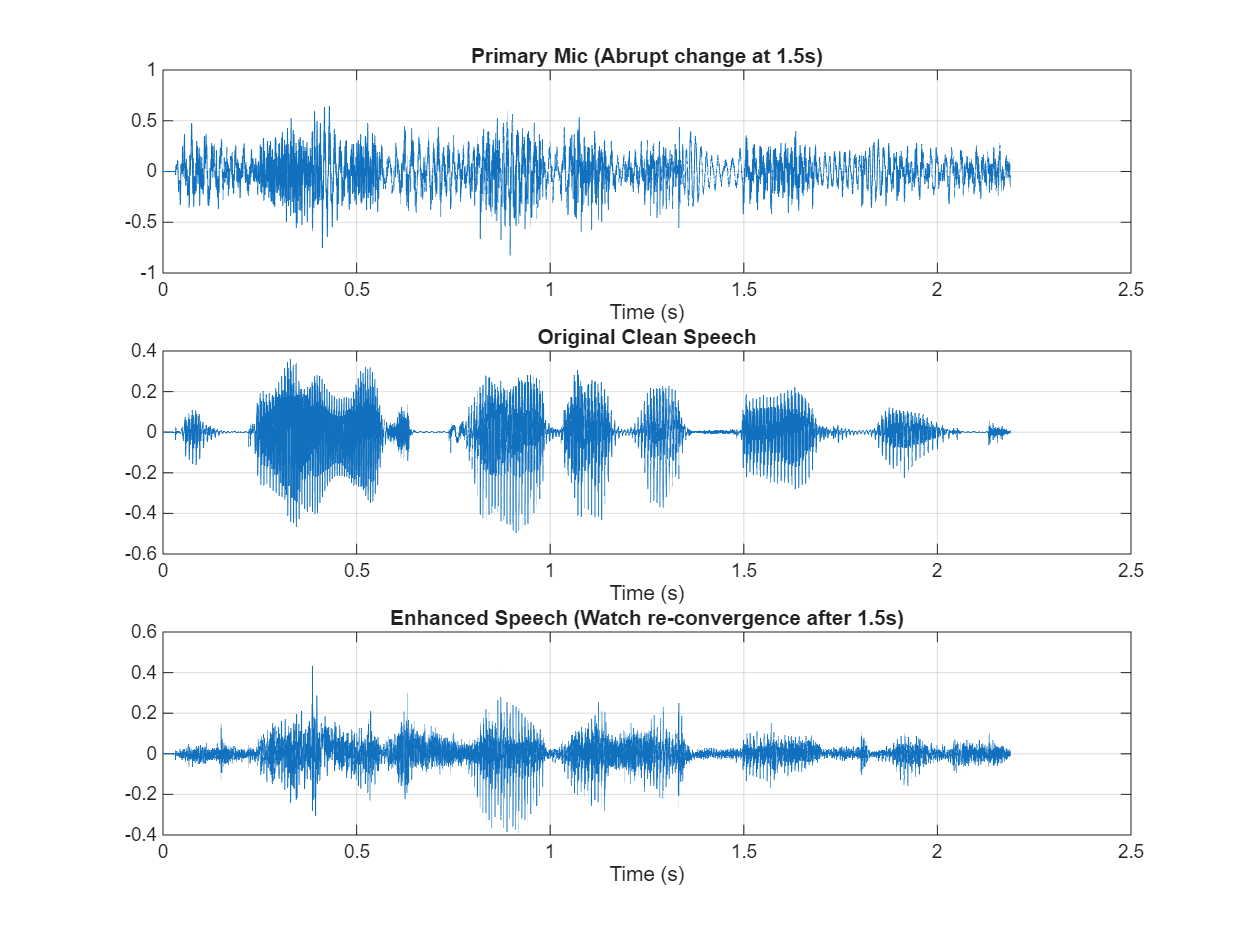
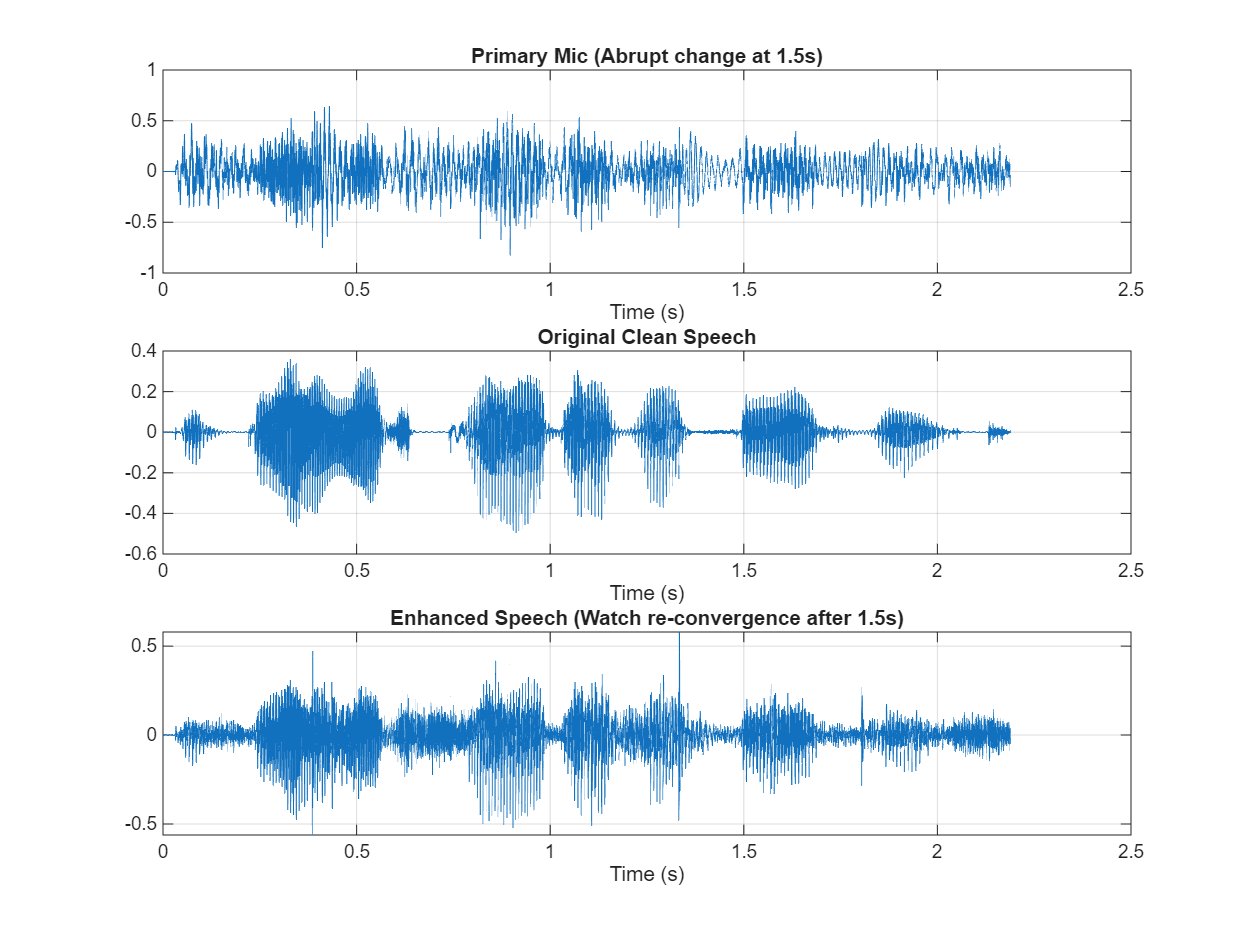
revert to old params

Changed region(s): [[0.1248, 0.7111, 0.8112, 0.8966], [0.0936, 0.6493, 0.1248, 0.7729], [0.0936, 0.8348, 0.1248, 0.8966]]

diff --git a/NLMS/run_all_scenarios.m b/NLMS/run_all_scenarios.m
@@ -1,10 +1,10 @@
 % NLMS Scenarios Consolidated Script
 % This script runs all four scenarios and saves the figures automatically
 
-fs = 16000;         
-N = 1024;            
-mu = 0.05;           
-epsilon = 1e-2;     
+fs = 16000;
+N = 256;
+mu = 0.5;
+epsilon = 1e-2;
 
 % Ensure correct paths
 script_dir = fileparts(mfilename('fullpath'));
@@ -46,7 +46,7 @@ gain = 0.90 / peak;
 clean_speech = clean_speech * gain;
 noise_source_base = noise_source_base * gain;
 
-t = (0:L-1)' / fs; 
+t = (0:L-1)' / fs;
 
 % Ensure figures directory exists
 script_dir = fileparts(mfilename('fullpath'));
@@ -65,7 +65,7 @@ h_room = exp(- (0:150)' / 30) .* randn(151, 1);
 ambient_noise_primary1 = conv(noise_source_base, h_room, 'same');
 
 d1 = clean_speech + ambient_noise_primary1;
-x1 = noise_source_base; 
+x1 = noise_source_base;
 
 [e1, ~] = nlms_filter(d1, x1, N, mu, epsilon);
 
@@ -75,7 +75,7 @@ subplot(3, 1, 2); plot(t, clean_speech); title('Original Clean Speech'); xlabel(
 subplot(3, 1, 3); plot(t, e1); title('Enhanced Speech'); xlabel('Time (s)'); grid on;
 saveas(fig_scen1, fullfile(figures_dir, 'scenario1_reverb.png'));
 
-zoom_start = min(1.5, t(end)-0.1); zoom_end = zoom_start + 0.05; 
+zoom_start = min(1.5, t(end)-0.1); zoom_end = zoom_start + 0.05;
 fig_scen1_zoom = figure('Name', 'Scenario 1: Zoomed View', 'Position', [950, 100, 800, 600]);
 subplot(3, 1, 1); plot(t, d1); title('Zoomed Primary Mic'); xlim([zoom_start, zoom_end]); grid on;
 subplot(3, 1, 2); plot(t, clean_speech); title('Zoomed Clean Speech'); xlim([zoom_start, zoom_end]); grid on;
@@ -90,7 +90,7 @@ ambient_noise_primary2 = 0.8 * [zeros(delay_samples2, 1); noise_source_base(1:en
 d2 = clean_speech + ambient_noise_primary2;
 
 % Leakage: The reference mic picks up 30% of the clean speech signal
-x2 = noise_source_base + 0.3 * clean_speech; 
+x2 = noise_source_base + 0.3 * clean_speech;
 
 [e2, ~] = nlms_filter(d2, x2, N, mu, epsilon);
 
@@ -119,7 +119,7 @@ mid_point = round(length(t)/2);
 ambient_noise_primary3 = [noise1(1:mid_point); noise2(mid_point+1:end)];
 
 d3 = clean_speech + ambient_noise_primary3;
-x3 = noise_source_base; 
+x3 = noise_source_base;
 
 [e3, ~] = nlms_filter(d3, x3, N, mu, epsilon);
 
@@ -131,7 +131,7 @@ saveas(fig_scen3, fullfile(figures_dir, 'scenario3_movement.png'));
 
 % Zoom around the transition
 t_mid = t(mid_point);
-zoom_start3 = max(0, t_mid - 0.05); zoom_end3 = min(t(end), t_mid + 0.05); 
+zoom_start3 = max(0, t_mid - 0.05); zoom_end3 = min(t(end), t_mid + 0.05);
 fig_scen3_zoom = figure('Name', 'Scenario 3: Zoomed View at Transition', 'Position', [950, 100, 800, 600]);
 subplot(3, 1, 1); plot(t, d3); title('Zoomed Primary Mic (Transition)'); xlim([zoom_start3, zoom_end3]); grid on;
 subplot(3, 1, 2); plot(t, clean_speech); title('Zoomed Clean Speech'); xlim([zoom_start3, zoom_end3]); grid on;

diff --git a/NLMS/evaluate_nlms_dataset.m b/NLMS/evaluate_nlms_dataset.m
@@ -1,10 +1,10 @@
 % evaluate_nlms_dataset.m
 % Evaluates the NLMS filter over multiple speech samples from the dataset
 
-fs = 16000;         
-N = 1024;            
-mu = 0.05;           
-epsilon = 1e-2;     
+fs = 16000;
+N = 256;
+mu = 0.5;
+epsilon = 1e-2;
 target_snr_dB = 0;  % Target Input SNR
 
 % Paths
@@ -45,43 +45,43 @@ for i = 1:num_files
     if fs_speech ~= fs
         clean_speech = resample(clean_speech, fs, fs_speech);
     end
-    
+
     L = length(clean_speech);
     noise_source = noise_source_full(1:L);
-    
+
     % Scale noise using active speech level
     [asl_clean, ~] = calculate_active_speech_level(clean_speech, fs);
     p_s = 10^(asl_clean/10);
     p_n = mean(noise_source.^2);
     scale = sqrt(p_s / (p_n * 10^(target_snr_dB/10)));
     noise_source = noise_source * scale;
-    
+
     % Peak Headroom Normalization
     d_base = clean_speech + noise_source;
     peak = max(abs(d_base));
     gain = 0.90 / peak;
     clean_speech = clean_speech * gain;
     noise_source = noise_source * gain;
-    
+
     % Simple acoustic path (1 sample delay)
     ambient_noise = 0.8 * [0; noise_source(1:end-1)];
     d = clean_speech + ambient_noise;
     x = noise_source;
-    
+
     % Apply NLMS
     [e, ~] = nlms_filter(d, x, N, mu, epsilon);
-    
+
     % Calculate Metrics
     stoi_in = calculate_stoi(clean_speech, d, fs);
     stoi_out = calculate_stoi(clean_speech, e, fs);
-    
+
     [asl_d, ~] = calculate_active_speech_level(d, fs);
     [asl_e, ~] = calculate_active_speech_level(e, fs);
-    
+
     fprintf('%-25s | %.4f       | %.4f       | %-16.2f | %-16.2f\n', ...
         speech_files(i).name(1:min(25, length(speech_files(i).name))), ...
         stoi_in, stoi_out, asl_d, asl_e);
-        
+
     % Save audio outputs
     [~, name, ~] = fileparts(speech_files(i).name);
     audiowrite(fullfile(output_dir, [name '_primary.wav']), d, fs);

diff --git a/NLMS/test_nlms.m b/NLMS/test_nlms.m
@@ -3,8 +3,8 @@
 
 % Parameters
 fs = 16000;         % Sampling frequency (16 kHz)
-N = 1024;           % Filter order (number of taps)
-mu = 0.05;          % Step size
+N = 256;           % Filter order (number of taps)
+mu = 0.5;          % Step size
 epsilon = 1e-2;     % Regularisation constant
 
 % Ensure correct paths
